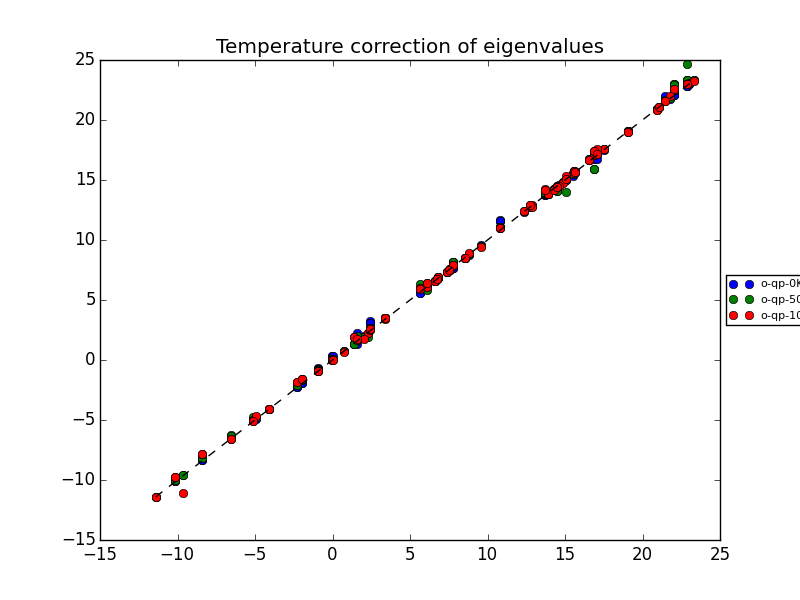
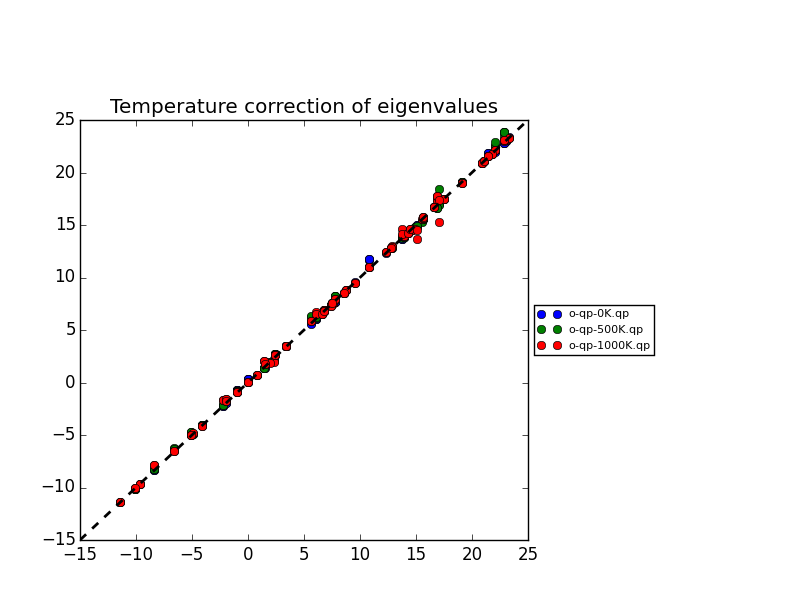
Updating tutorial
Updating info of the electron-phonon tutorial.

diff --git a/yambopy/analyse.py b/yambopy/analyse.py
@@ -241,6 +241,7 @@ class YamboAnalyser():
         return kpoint_index, bands_cols
 
     def plot_qp_correction(self,tags=('qp',),lda=2,qp=3):
+       ax = plt.axes([0.1, 0.1, .7, .7])
        for json_filename in sorted(self.jsonfiles.keys()):
             for output_filename in self.jsonfiles[json_filename]["data"]:
                 if all(i in output_filename for i in tags):
@@ -249,7 +250,14 @@ class YamboAnalyser():
                     plt.title('Temperature correction of eigenvalues')
                     plt.plot(data[:,lda],data[:,qp],'o',label=output_filename) 
                     plt.legend(loc='center left', bbox_to_anchor=(1, 0.5), prop={'size':8})
-       plt.plot([min(data[:,lda]),max(data[:,lda])],[min(data[:,lda]),max(data[:,lda])],'k--')          
+       xmin, xmax = ax.get_xlim()
+       ymin, ymax = ax.get_ylim()
+       plt.plot([xmin,xmax],[ymin,ymax],'k--',lw=2)          
+
+       box = ax.get_position()
+       ax.set_position([box.x0, box.y0, box.width * 0.8, box.height])
+       ax.legend(loc='center left', bbox_to_anchor=(1, 0.5), prop={'size':8})
+       plt.show()
        plt.plot()
        plt.show()
         

diff --git a/docs/source/tutorial.rst b/docs/source/tutorial.rst
@@ -412,3 +412,35 @@ potential derivative, for deriving the electron-phonon matrix elements.
 
 .. image:: figures/tutorial-el-ph_1.jpg
 
+
+The script ``elph_pw_si.py`` calculates the electron-phonon matrix elements. It follows the indications of the flowchart, using
+the scf and nscf data. All the files used by QE are stored in the directory ``work``. Finally, it transform the files from
+the QE format to the netCDF format used by yambo. It creates the folder ``elphon``.
+
+
+**2. Electron-phonon calculations**
+
+
+The second step requires the script ``elph_qp_si.py``. If the electron-phonon matrix elements have been successfully created and
+stored in ``elphon/SAVE`` we are ready to calculate the electron-phonon correction of the eigenvalues at several temperatures, 
+or to examine the spectral function of each quasi-particle state. A more complete tutorial of the capabilities of yambo is 
+also available in the `yambo website <http://www.yambo-code.org/tutorials/Electron_Phonon/index.php>`_.
+
+If we run 
+
+.. code-block:: bash
+   
+    python elph_qp_si.py -r
+
+Yambo will calculate the quasi-particle correction and the spectral functions for the top of the valence band and the 
+bottom of the conduction band (states 4 and 5).
+
+
+.. image:: figures/elph-qp-correction.png
+
+
+.. image:: figures/elph-sf-band4.png
+
+
+
+.. image:: figures/elph-sf-band5.png
